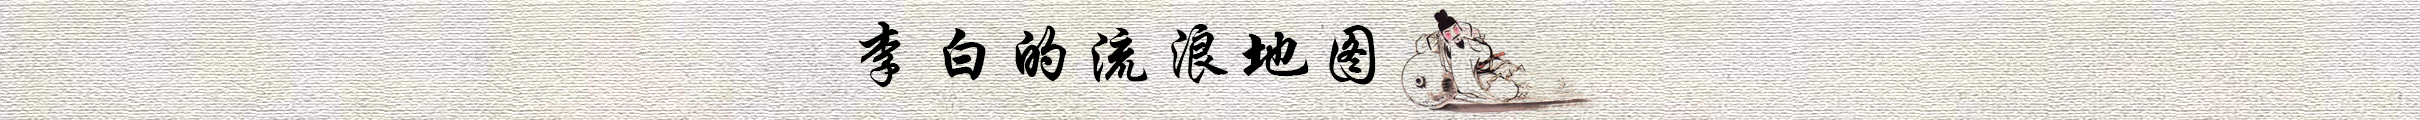
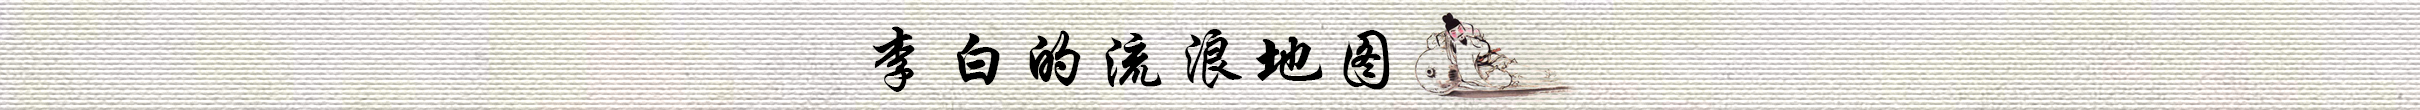
完成页面背景

diff --git a/src/pages/home.scss b/src/pages/home.scss
@@ -5,10 +5,12 @@
   display: flex;
   flex-direction: column;
   > header {
-    height: px(120);
+    height: px(110);
     background-size: cover;
   }
   > main {
+    padding-top: px(30);
+    background-size: cover;
     flex: 1;
     display: grid;
     grid-template:
@@ -16,26 +18,24 @@
       "box3 box3 box4 box5" 363fr / 366fr 361fr 811fr 747fr;
     grid-column-gap: px(28);
     grid-row-gap: px(28);
-
+    > section {
+      border: 1px solid #6e6e6e;
+      border-radius: 4px;
+    }
     > .section1 {
       grid-area: box1;
-      background: pink;
     }
     > .section2 {
       grid-area: box2;
-      background: lightgrey;
     }
     > .section3 {
       grid-area: box3;
-      background: lightblue;
     }
     > .section4 {
       grid-area: box4;
-      background: lightcoral;
     }
     > .section5 {
       grid-area: box5;
-      background: lightyellow;
     }
   }
 }

diff --git a/src/pages/home.tsx b/src/pages/home.tsx
@@ -1,12 +1,13 @@
 import React from 'react';
 import './home.scss';
 import headerBg from '../images/header.png';
+import mainBg from '../images/main.png';
 
 export const Home = () => {
   return (
     <div className="home">
       <header style={{backgroundImage: `url(${headerBg})`}}/>
-      <main>
+      <main style={{backgroundImage: `url(${mainBg})`}}>
         <section className="section1"></section>
         <section className="section2"></section>
         <section className="section3"></section>

diff --git a/src/shared/style.scss b/src/shared/style.scss
@@ -22,10 +22,10 @@ body {
 
 #root{
   margin: 0 auto;
-  background: #fcfcf1;
   display: flex;
   flex-direction: column;
 }
+
 .App{
   flex: 1;
   display: flex;
